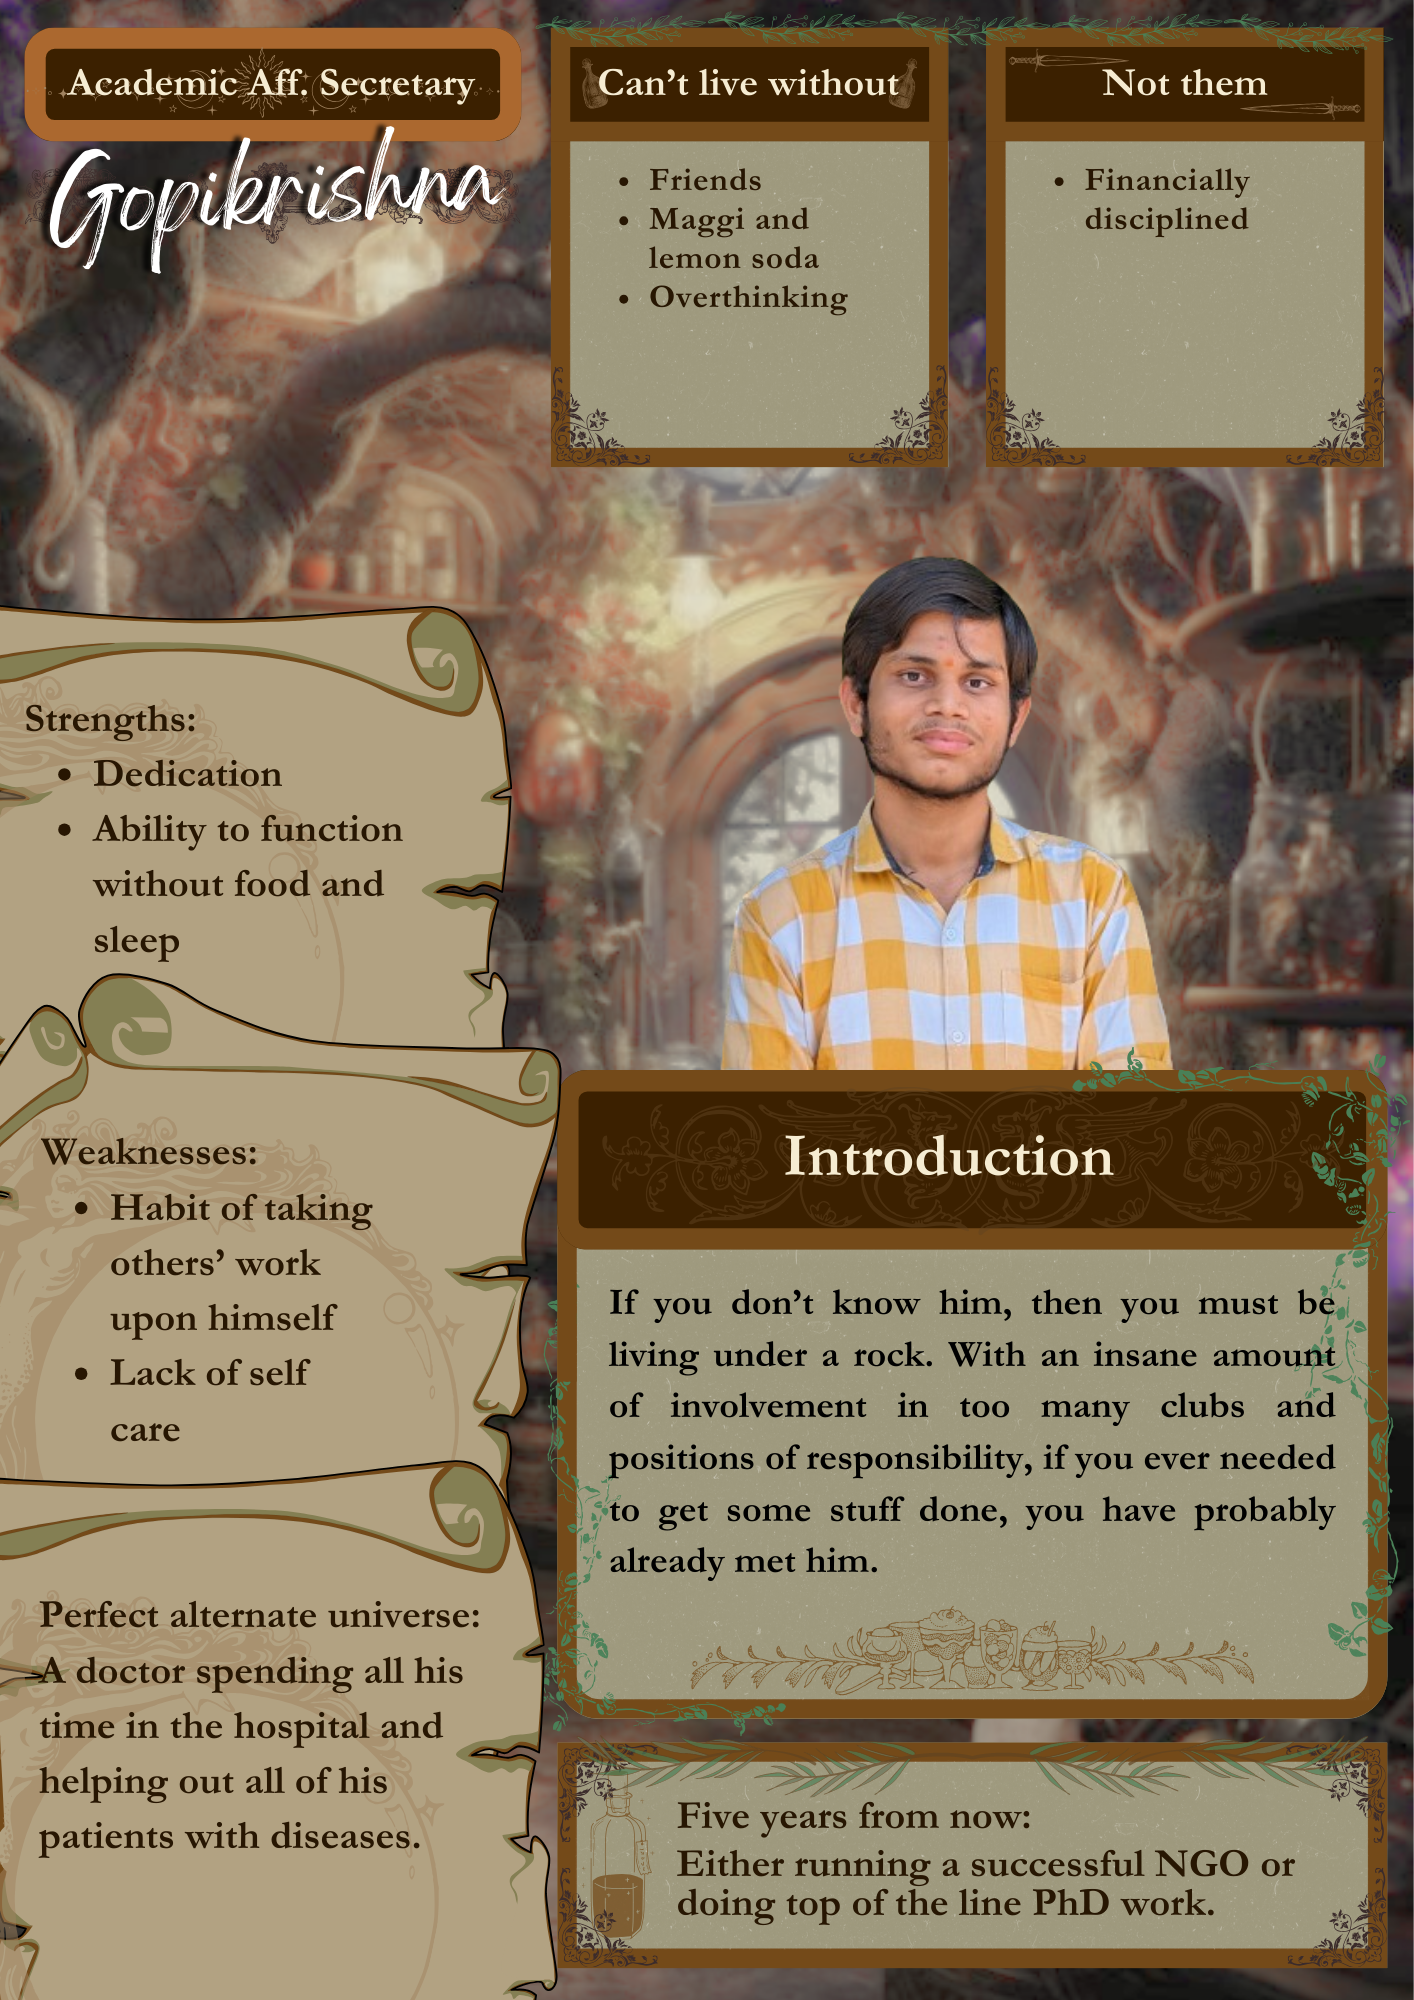
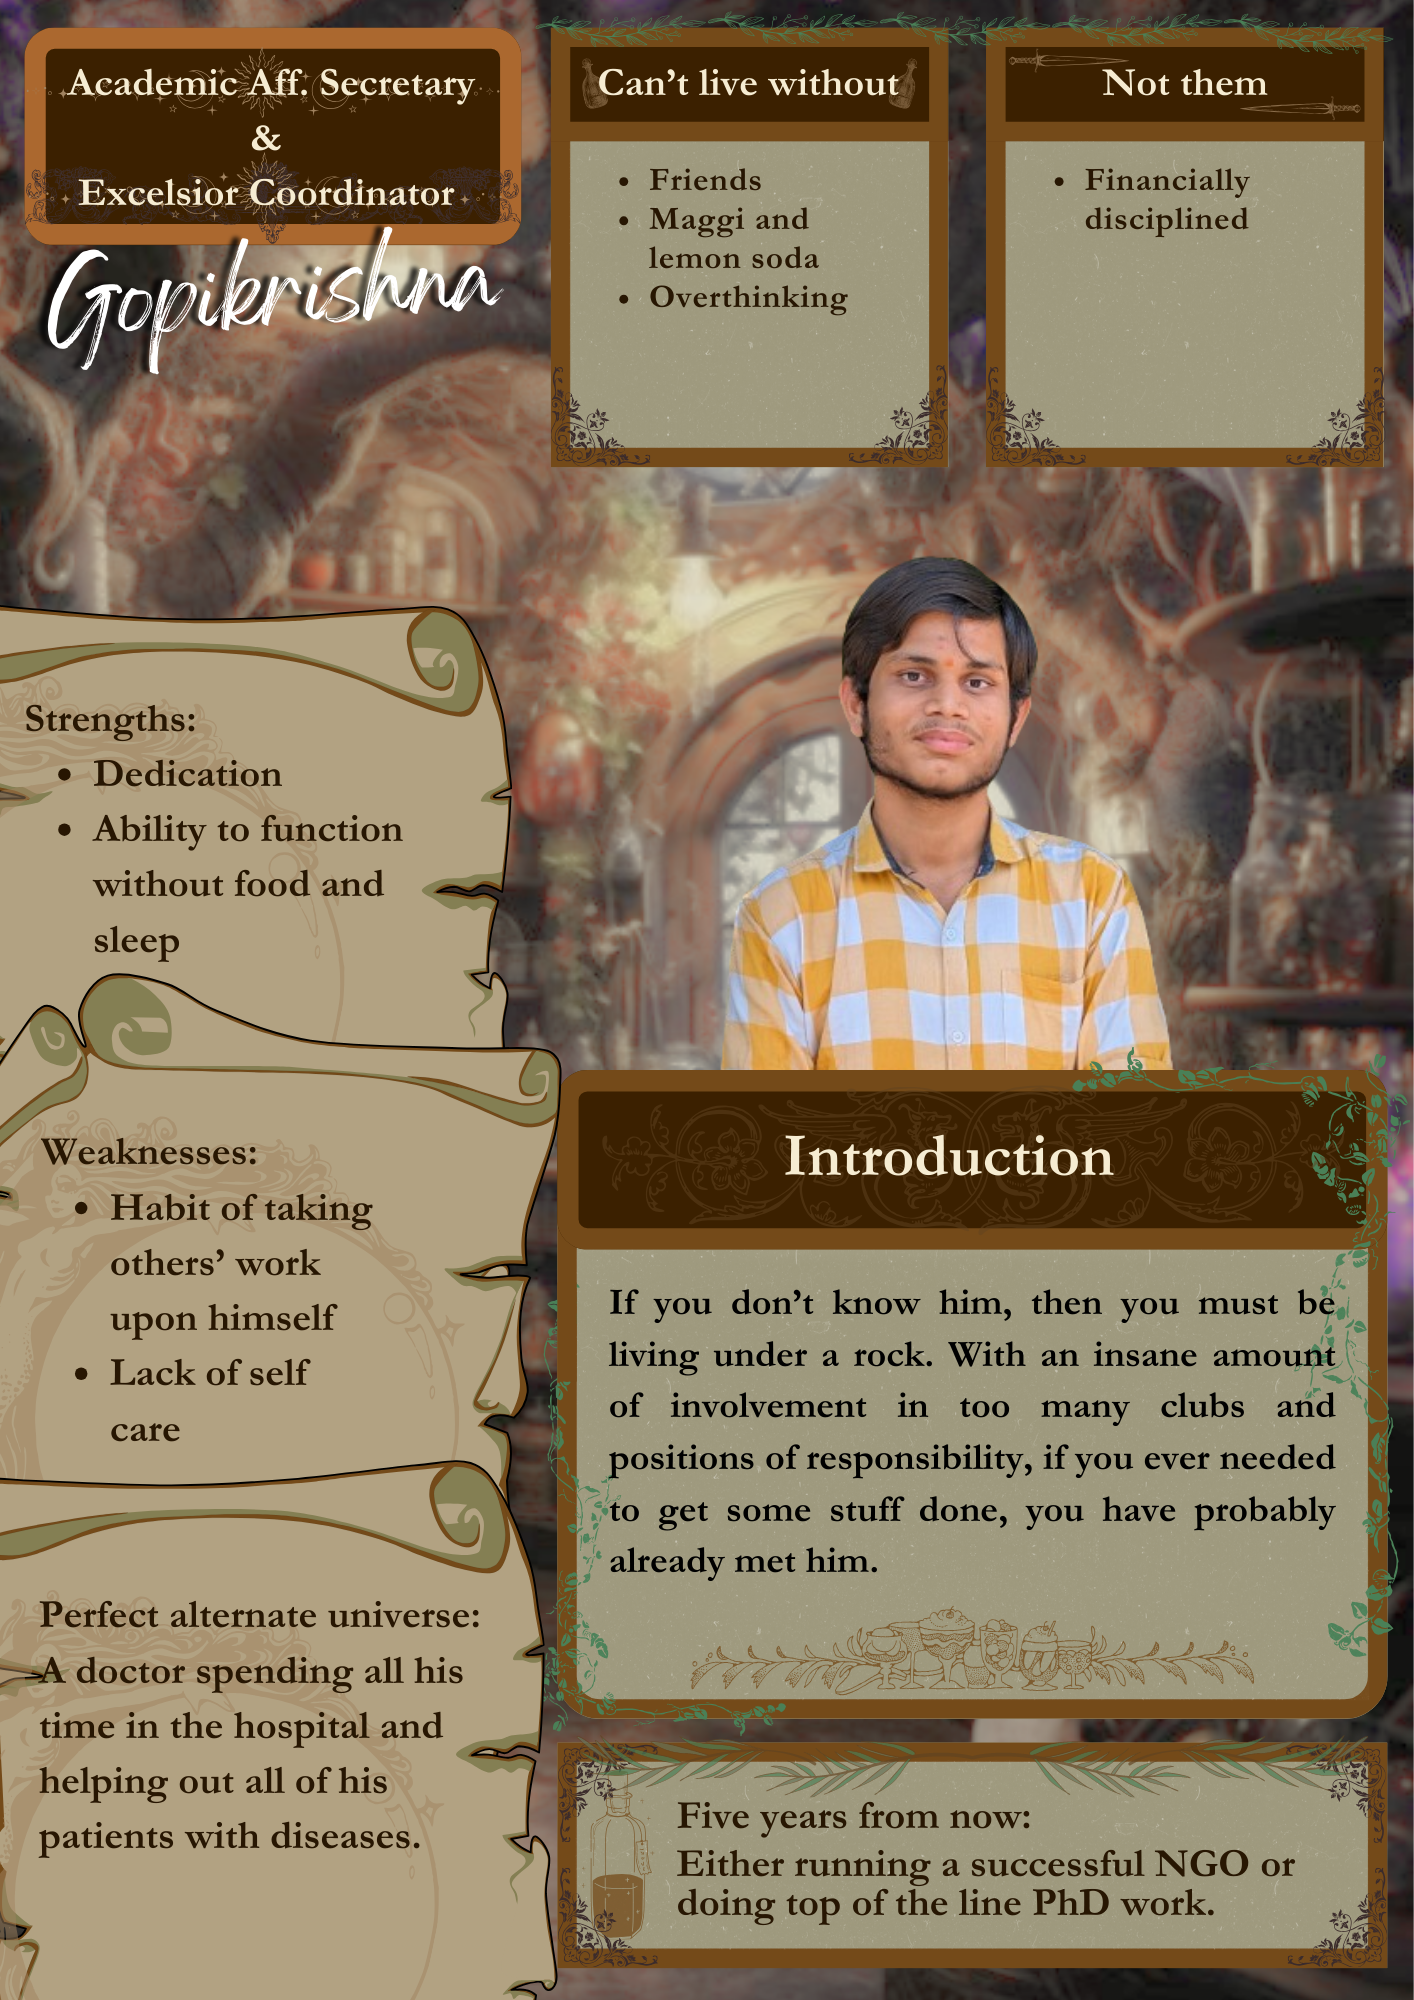
Update author's bio

Changed region(s): [[0.0, 0.062, 0.3734, 0.186]]

diff --git a/index.js b/index.js
@@ -1168,4 +1168,26 @@ export const author_info = [
 		desc2: '',
 		link: '',
 	},
+	{
+		key: 'shreenivason',
+		title: 'R Shreenivason',
+		tagLine1: '',
+		tagLine2: '',
+		role: '',
+		year: '',
+		desc1: 'He is a 3rd year electrical engineering student with a penchant for quizzing and anything space-related. While he isn’t daydreaming about *virtually anything*, he tries to learn something new every day. He is also prone to the worst of dad jokes. ',
+		desc2: '',
+		link: '',
+	},
+	{
+		key: 'tarun',
+		title: 'Tarun J Palani',
+		tagLine1: '',
+		tagLine2: '',
+		role: '',
+		year: '',
+		desc1: 'Dude who forgot to pay their creative rent and is now out of stuff to put here.',
+		desc2: '',
+		link: '',
+	},
 ];

diff --git a/2024_Spring/puppet-show.md b/2024_Spring/puppet-show.md
@@ -8,7 +8,7 @@ desc: Embark on a whimsical journey through the enchanted halls of IIT Tirupati
   their magical achievements, stir your empathy for their potion-making mishaps,
   and offer a potion of gratitude for their unwavering dedication.
 thumbnail: images/teamwork.jpg
-authors: Sneha Battula, Bineet Barman, Akhil Krishnan, Neerav Sreekumar
+authors: Sneha Battula, Bineet Barman, Akhil Krishnan, Neerav Sreekumar, Tarun J Palani
 starred: true
 abio: none
 ---
@@ -78,9 +78,14 @@ And to our outgoing representatives, we offer our sincerest gratitude for their 
 
 **How would you describe your tenure looking back at it now?**
 
-I don't see much happening during my overall tenure. All the new initiatives still need to be approved in meetings. From supplementary examinations to maintaining 75% attendance, all of them must be adequately reviewed and approved by the faculties. Currently, I am trying for PAL, supplementary examinations, and 75% attendance, which will be discussed in the upcoming meetings. If not, then the forthcoming secretary should work on this. They agreed to a 6-month internship for 2022 batch students, and I still need to check whether they will implement it. Minors will also start in the upcoming academic year. We started a policy club this academic year, which should have been initiated in the previous academic year. Credit for finally getting it started goes to Dheeraj, Ratna Shree, and the MPP students. Faculty advisors need to assist the students correctly, and I submitted a clear report on this matter to the Dean, sir. Library timings got extended, and for that, I want to thank the Library Advisory Committee and the staff. There were many other things that happened in this academic year, and most of them were not because of me. I was not a good Academic Affairs Secretary. There are still many pending tasks that need to be completed as soon as possible.                 
+*As Academic Affairs Secretary:*                                               
+I don't see much happening during my overall tenure. All the new initiatives still need to be approved in meetings. From supplementary examinations to maintaining 75% attendance, all of them must be adequately reviewed and approved by the faculties. Currently, I am trying for PAL, supplementary examinations, and 75% attendance, which will be discussed in the upcoming meetings. If not, then the forthcoming secretary should work on this. They agreed to a 6-month internship for 2022 batch students, and I still need to check whether they will implement it. Minors will also start in the upcoming academic year. We started a policy club this academic year, which should have been initiated in the previous academic year. Credit for finally getting it started goes to Dheeraj, Ratna Shree, and the MPP students. Faculty advisors must assist the students correctly, and I submitted a clear report on this matter to the Dean. Library timings got extended, and for that, I want to thank the Library Advisory Committee and the staff. There were many other things that happened in this academic year, and most of them were not because of me. I was not a good Academic Affairs Secretary. There are still many pending tasks that need to be completed as soon as possible.                                          
+                                                                            
+During my tenure, the curriculum was changed, and the credit for that goes to the previous Academic Affairs Secretary (Dheeraj) because he had constantly asked the faculties about it.                                           
 
-During my tenure, the curriculum was changed, and the credit for that goes to the previous Academic Affairs Secretary (Dheeraj) because he had constantly asked the faculties about it.
+*As Excelsior Club Coordinator:*                      
+We helped the students in taking the CAT test series at low cost by talking with the company. One of the highlights was the session taken by Debeshee Das. The session was beneficial for students who want to pursue higher education abroad. One more session was by Prathyusha, where she spoke about CAT and preparation tips. I want to thank all the speakers who helped this club in conducting sessions. Many sessions are planned, and we are trying to schedule them in the upcoming weeks.                                    
+
 
 - - -
 
@@ -92,14 +97,21 @@ I sent a mail to the Academic Advisor - Courses regarding some issues. In the su
 
 **As tradition goes, one will soon take your place. What advice would you give them?**
 
-I need to learn how to present things, think from different perspectives and communicate with the faculties to get things done. If these qualities were there, the results would have been much faster. The academic staff and CRs can take care of the remaining work. One should know the art of making others agree by providing all the necessary information.
+*For the future Academic Affairs Secretary:*                    
+I need to learn how to present things, think from different perspectives and communicate with the faculties to get things done. If these qualities were there, the results would have been much faster. The academic staff and CRs can take care of the remaining work. One should know the art of making others agree by providing all the necessary information.                       
+                                     
+*For the future Excelsior Club Coordinator:*                                          
+There are so many things that need to be done under this club. So, the future club coordinator needs to spend time to make this happen. They need to have an idea about the club and what has to be done for the welfare of students. They must dedicate time and start working on all the competitive exams under this club. The one having a mentality of helping others will be the perfect one. They need to have an idea of all exams and what is happening. They must also have a proper connection with alumni and adequate communication skills.                                
+
 
 - - -
 
 **Ever fancy yourself being another secretary?**
 
-I would then want to become the Mess Affairs Secretary instead of an Academic Affairs Secretary. I want to become the Mess Affairs Secretary to work accordingly and decrease the food wastage. I want to work with the Mess people in maintaining the mess properly for hygiene, etc
-
+I would then want to become the Mess Affairs Secretary instead of an Academic Affairs Secretary. I want to become the Mess Affairs Secretary to work accordingly and decrease the food wastage. I want to work with the Mess people in maintaining the mess properly for hygiene, etc                                                 
+                     
+I’d like to become the chess club coordinator as well. I love chess so much, and I have ideas to increase the chess culture in our college. And I love spending my time on chess. Unfortunately, I couldn't become a chess club coordinator during the 4 years of my undergraduate studies.                                  
+              
 - - -
 
 **Let’s take a look at what the student community has to say about him:**
